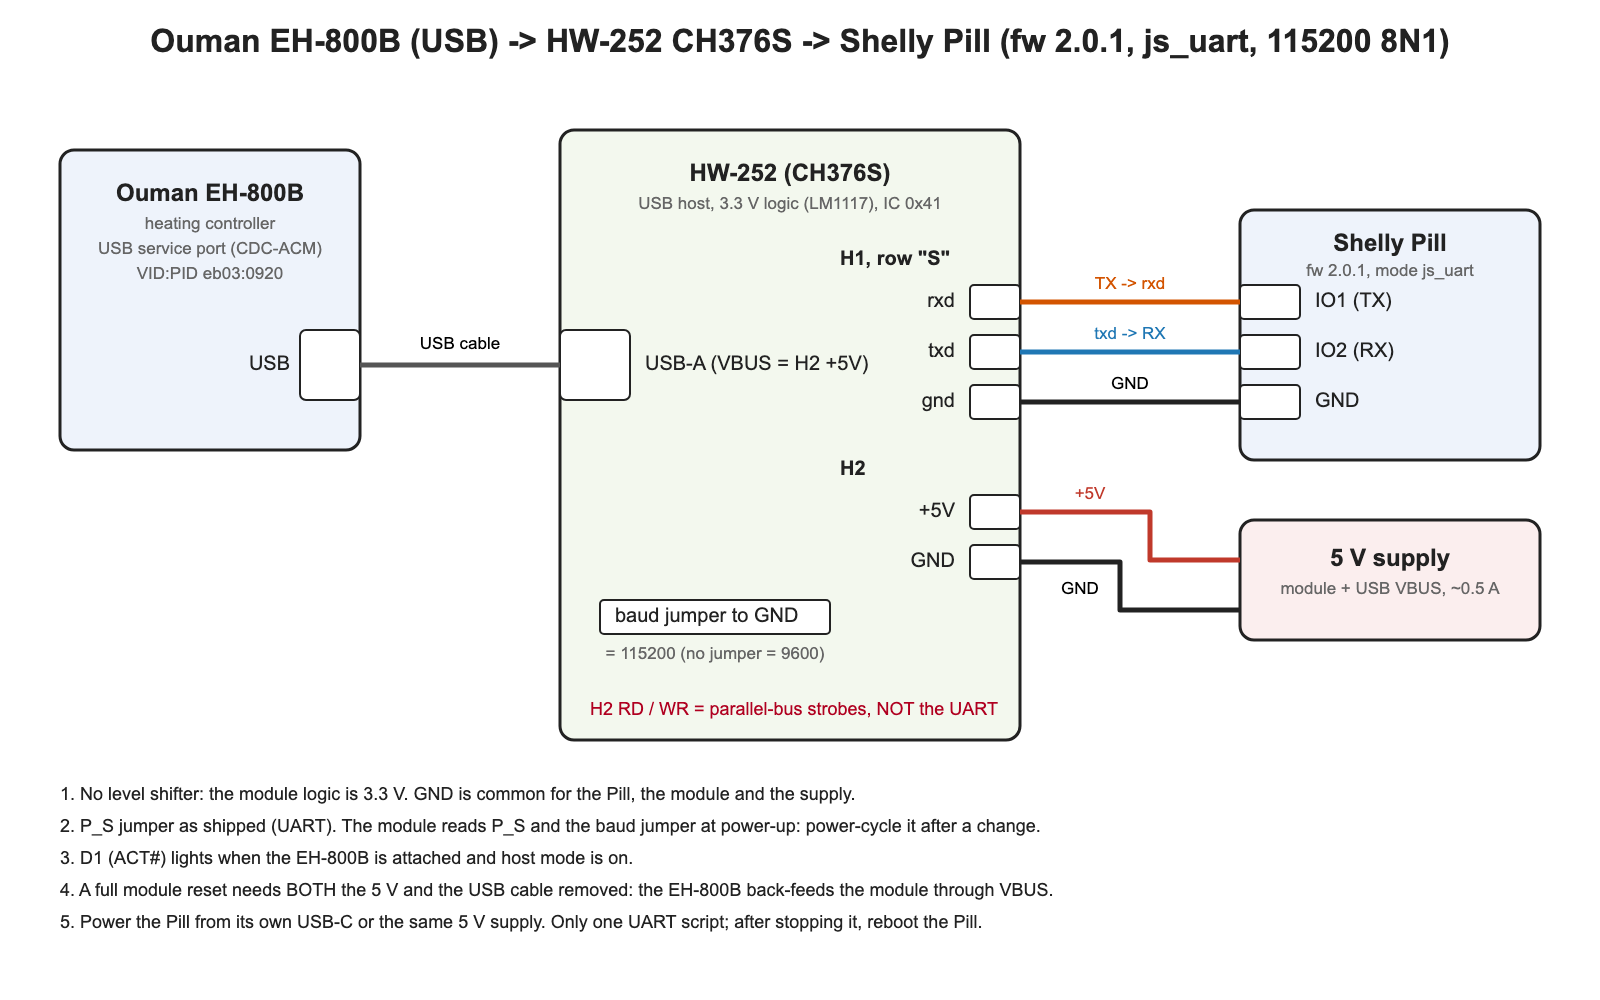
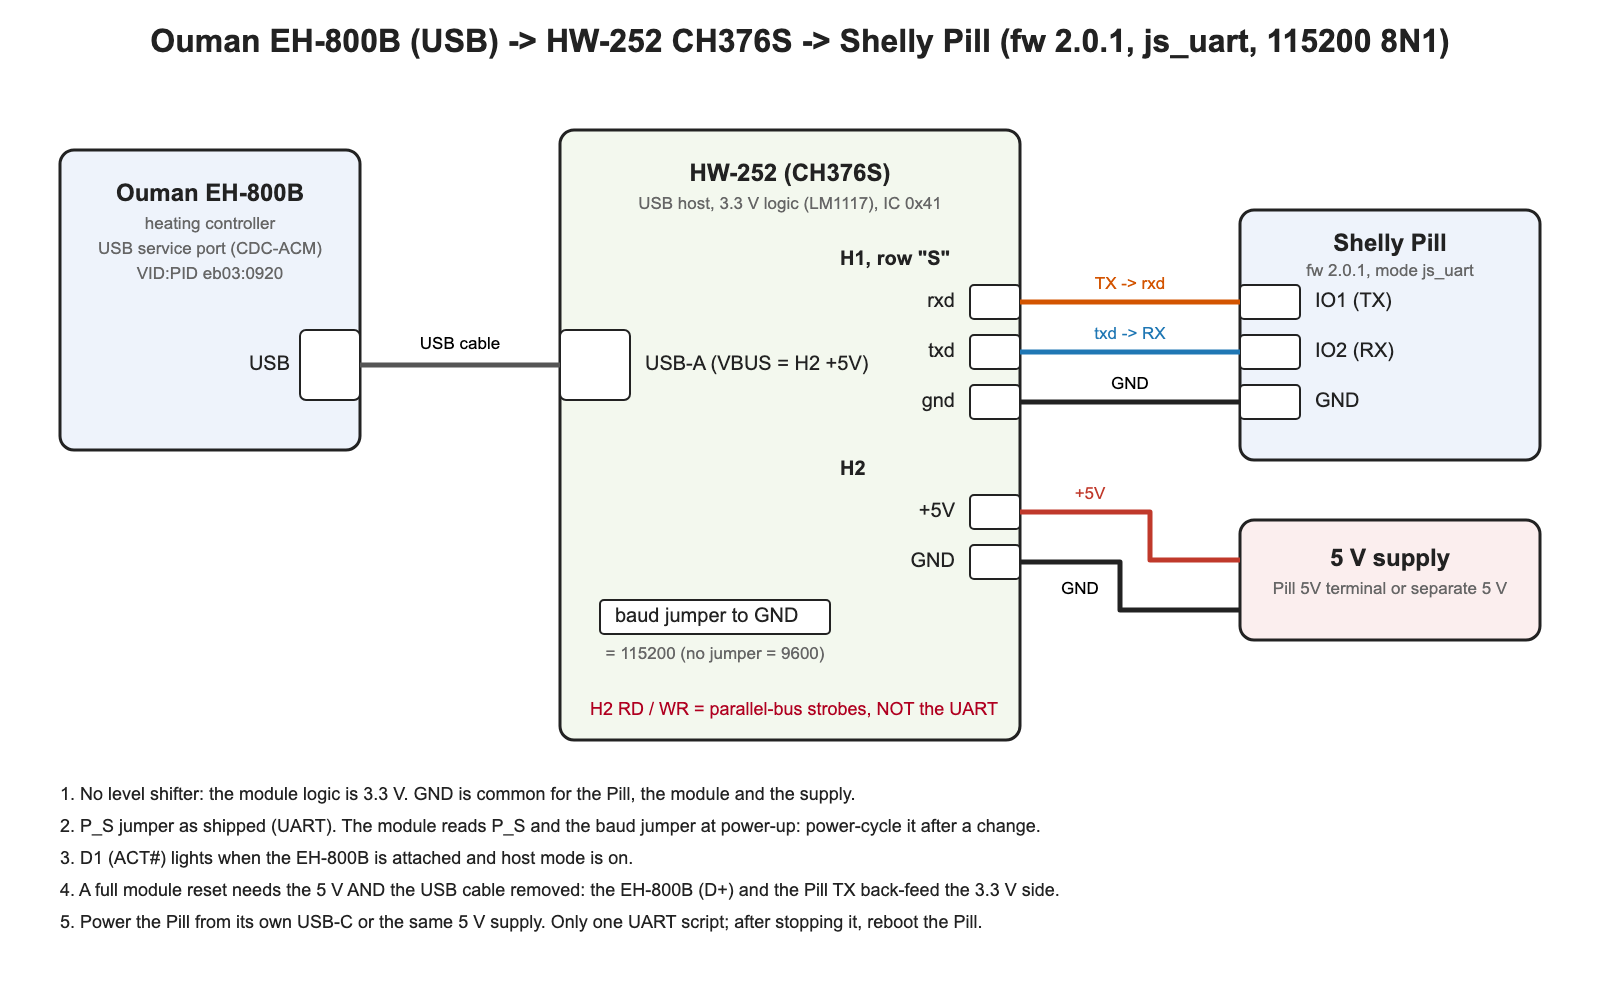
ouman: persistent power-cycle limits, back-feed findings and reset options (20261021-17)

Changed region(s): [[0.1875, 0.868, 0.6562, 0.899], [0.8125, 0.558, 0.9375, 0.62]]

diff --git a/ouman/eh800b-usb/ouman_eh800b_usb.shelly.js b/ouman/eh800b-usb/ouman_eh800b_usb.shelly.js
@@ -56,7 +56,7 @@
  * MQTT  <prefix>/state (retained), /diag, /set, /prop/<id> (retained),
  *       /debug (TX/RX hex while DEBUG).
  *
- * version 20261021-16
+ * version 20261021-17
  */
 
 // ===================================================================
@@ -77,11 +77,14 @@ let CFG = {
   PROPS: "127,134,135,6,7,8,26,102,130,54,55,91,112,230",
   PROP_SCAN: true,
   // optional: power-cycle the HW-252 through another Shelly when the CH376S stops answering
-  // (it hangs when the USB device is unplugged mid-transfer); the relay switches the module
-  // 5 V and turns itself back on (toggle_after), e.g.
-  // "http://<relay-ip>/rpc/Switch.Set?id=0&on=false&toggle_after=5"; "" = off
+  // (it hangs when the USB device is unplugged mid-transfer). The relay cuts the module 5 V,
+  // or a Shelly Plug cuts the Pill's own USB-C supply (Pill + module), and turns itself back
+  // on (toggle_after), e.g. "http://<relay-ip>/rpc/Switch.Set?id=0&on=false&toggle_after=10";
+  // "" = off. Limits are kept in KVS "ouman_mres" so they survive the Pill's own power cut.
   MODULE_RESET_URL: "",
-  MODULE_RESET_AFTER: 3, // start-ups in a row with no answer from the module
+  MODULE_RESET_AFTER: 3,     // start-ups in a row with no answer from the module
+  MODULE_RESET_MIN_S: 600,   // at least this long between power cycles
+  MODULE_RESET_PER_DAY: 6,
   DEBUG: false
 };
 
@@ -120,7 +123,7 @@ let queue = [], curCmd = "", rc = 0, propIdx = 0, scanId = 1, trendWant = false;
 let V = { outdoor: null, supply: null, room: null, valve: null, ret: null, dhw: null, room_set: null, mode: null, kp: null };
 let M = [], P = {}, CH = [0, 0, 0], vcH = [null, null, null, null, null, null, null, null, null];
 let ST = { link: false, dev: "", ts: 0, n: 0, err: "", cmd: "", out: "", rej: "", rej_ts: 0, mres: 0, mres_ts: 0, mres_err: "" };
-let modFails = 0;
+let modFails = 0, mresBusy = false;
 let TRD = { epoch: 0, raw: null, hex: "", ptr: -1, k: -1, pk: 0, need: 0, ts: 0, s: 0, busy: false, err: "" };
 // trend.log stream parser: 22 B header, 20 B records (u32 epoch + 8 x int16/10)
 let TR = { on: false, pos: 0, rec: "", best: -1, bestRec: "", n: 0, hdr: "" };
@@ -256,22 +259,39 @@ function fail(why) {
   if (why === "no reply from the controller") { initTries = 5; }   // retry every 30 s
   pubState();
   vcSync();
-  // the module itself is silent: after MODULE_RESET_AFTER start-ups cut its power (max every 2 min)
+  // the module itself is silent: after MODULE_RESET_AFTER start-ups cut its power
   if (why.indexOf("CHECK_EXIST") >= 0 || why.indexOf("no status") >= 0) { modFails++; }
-  if (CFG.MODULE_RESET_URL && modFails >= CFG.MODULE_RESET_AFTER && nowS() - ST.mres_ts >= 120) {
-    modFails = 0; ST.mres++; ST.mres_ts = nowS();
-    print("[ouman] module power cycle " + JSON.stringify(ST.mres));
-    Shelly.call("HTTP.GET", { url: CFG.MODULE_RESET_URL, timeout: 5 }, modResetCb, null);
-    gT(12000, init);
-    return;
+  if (CFG.MODULE_RESET_URL && modFails >= CFG.MODULE_RESET_AFTER && !mresBusy) {
+    modFails = 0; mresBusy = true;
+    Shelly.call("KVS.Get", { key: "ouman_mres" }, mresGetCb, null);
   }
   initTries++;
   // generation-bound: of several quick fail()s only the last one restarts the link
   gT(initTries < 5 ? 3000 : 30000, init);
 }
+// KVS "ouman_mres" = "<day>:<count>:<last unixtime>"; no clock yet -> no power cycle
+function mresGetCb(res, err, msg, ud) {
+  let now = nowS(), day = Math.floor(now / 86400), n = 0, last = 0;
+  if (err === 0 && res && res.value) {
+    let p = res.value.split(":");
+    if (Number(p[0]) === day) { n = Number(p[1]); }
+    last = Number(p[2]);
+  }
+  if (!now || now < 1700000000 || n >= CFG.MODULE_RESET_PER_DAY || now - last < CFG.MODULE_RESET_MIN_S) {
+    ST.mres_err = "limit"; mresBusy = false; return;
+  }
+  ST.mres = n + 1; ST.mres_ts = now;
+  Shelly.call("KVS.Set", { key: "ouman_mres", value: JSON.stringify(day) + ":" + JSON.stringify(n + 1) + ":" + JSON.stringify(now) }, mresSetCb, null);
+}
+function mresSetCb(res, err, msg, ud) {
+  if (err !== 0) { ST.mres_err = "kvs " + msg; mresBusy = false; return; }
+  print("[ouman] module power cycle " + JSON.stringify(ST.mres) + " today");
+  Shelly.call("HTTP.GET", { url: CFG.MODULE_RESET_URL, timeout: 5 }, modResetCb, null);
+}
 function modResetCb(res, err, msg, ud) {
   ST.mres_err = (err !== 0) ? "rpc " + msg : ((res && res.code !== 200) ? "http " + JSON.stringify(res.code) : "");
   if (ST.mres_err) { print("[ouman] module power cycle failed: " + ST.mres_err); }
+  mresBusy = false;
 }
 function init() { busy = true; inTog = 0; outTog = 0; iK = 0; initStep(""); }
 function initStep(r) {

diff --git a/ouman/eh800b-usb/README.md b/ouman/eh800b-usb/README.md
@@ -38,32 +38,38 @@ all scripts together about 25 kB of heap.
   module back through VBUS.
 * D1 (ACT#) lights when the EH-800B is attached and host mode is on.
 
-### Optional: automatic module reset (design, 21.10.2026 — not yet built)
+### Optional: automatic module reset (21.10.2026 — script ready, hardware not built yet)
 
 The CH376S hangs when the EH-800B is unplugged in the middle of a transfer, and only a power cycle
-brings it back (section 9). The Pill cannot switch anything itself in `js_uart` mode (all three IO
-pins are reserved), so another Shelly with a relay cuts the module's 5 V on request:
+brings it back (section 9). A Pill reboot does not help: the Pill's 5V terminal stays powered from
+USB-C. The Pill cannot switch anything itself in `js_uart` mode (all three IO pins are reserved), so
+another Shelly cuts the power and turns it back on by itself (`toggle_after`):
 
-| Part | Setting |
-|---|---|
-| Relay | any Gen2/Gen3 Shelly with a Switch, e.g. a dry-contact Shelly 1 (Mini) Gen3 in series with the module's +5 V, or a Shelly Plug switching the 5 V adapter |
-| Relay config | `initial_state: "on"` and `auto_on: true`, `auto_on_delay: 10` (power comes back even if the relay reboots or is switched off by hand) |
-| Script | `MODULE_RESET_URL: "http://<relay-ip>/rpc/Switch.Set?id=0&on=false&toggle_after=5"` |
+| Option | Switch | Power-cycles | Extra parts |
+|---|---|---|---|
+| 1 — module fed from the Pill's 5V terminal | Shelly Plug in front of the Pill's USB-C adapter | Pill + HW-252 | 330 Ω (below) |
+| 2 — module fed separately | dry-contact Shelly relay (e.g. 1 Mini Gen3) in the module's +5 V wire | HW-252 only | 330 Ω + 1 kΩ (below) |
 
-After `MODULE_RESET_AFTER` (3) start-ups in a row without an answer from the module, the script
-calls the URL, waits 12 s and starts again; at most once every 2 minutes. `diag.mres`, `mres_ts`
-and `mres_err` show the count, the time and an error.
+* Relay / plug config: `initial_state: "on"`, `auto_on: true`, `auto_on_delay: 10`.
+* Script: `MODULE_RESET_URL: "http://<relay-ip>/rpc/Switch.Set?id=0&on=false&toggle_after=10"`.
+* After `MODULE_RESET_AFTER` (3) start-ups in a row without an answer from the module the script
+  cuts the power, at least `MODULE_RESET_MIN_S` (600 s) apart and at most `MODULE_RESET_PER_DAY` (6)
+  times a day, and never before the Pill's clock is set. The limits live in KVS `ouman_mres`, so
+  option 1 (the Pill switches its own power off) cannot loop. `diag.mres`, `mres_ts` and `mres_err`
+  show the count, the time and an error (`limit` = held back by the limits).
+* Without USB-C the Pill does not run on the back-feed (bench 21.10.2026).
 
-**Back-feed must be blocked first**, otherwise the EH-800B keeps the module powered through the
-USB cable and the power cut does not reset it. Measure with the module 5 V disconnected, the USB
-cable attached and the controller on: (1) H2 +5V to GND, (2) the module 3.3 V rail (LM1117
-output) to GND.
+**Back-feed must be blocked**, otherwise the module never resets. Bench measurement 21.10.2026 with
+the module 5 V cut, the USB cable attached and the controller on: **3.3 V rail 2.5 V, H2 +5V 1.4 V**.
+The module is fed into its 3.3 V side, not through VBUS: through the controller's D+ pull-up and,
+while the Pill is powered, the Pill's TX idle level, both via the CH376S protection diodes (the
+1.4 V on +5V leaks back through the LM1117). A VBUS diode would not help. Fix:
 
-| Reading | Back-feed path | Fix |
-|---|---|---|
-| (1) ≥ 3 V | VBUS | Schottky diode (1N5817 / SS14) in the cable's VBUS wire, anode towards the HW-252 |
-| (1) < 1 V, (2) 1–3 V | D+/D− pull-up through the CH376S | 330 Ω from the 3.3 V rail to GND |
-| both < 0.5 V | none | the relay alone is enough |
+* **330 Ω from the 3.3 V rail (LM1117 output) to GND** — pulls the rail to ~0.5 V against the
+  1.5 kΩ D+ pull-up when the power is cut; ~10 mA while running.
+* **Option 2 only: 1 kΩ in series in the Pill IO1 (TX) → rxd wire** — the Pill's push-pull TX
+  would otherwise hold the rail up; 115200 baud is not affected.
+* Check: with the power cut the 3.3 V rail must read below 1 V.
 
 ## 2. Prepare the Pill
 
@@ -99,6 +105,7 @@ The CFG block at the top of each script is the only part to edit. Main script:
 | `PROP_SCAN` | true | also read every property id 1–257 and 327–422 in turn → `<prefix>/prop/<id>` |
 | `MODULE_RESET_URL` | `""` | optional relay URL that power-cycles the HW-252 (section 1, automatic module reset) |
 | `MODULE_RESET_AFTER` | 3 | start-ups in a row without an answer from the module before the power cycle |
+| `MODULE_RESET_MIN_S` / `MODULE_RESET_PER_DAY` | 600 / 6 | spacing and daily cap of the power cycles (kept in KVS `ouman_mres`) |
 
 ## 4. What you get
 
@@ -258,6 +265,12 @@ UART script only receives after a fresh boot. At most 6 reboots per day (KVS `ou
   cut off by a reboot later sends EOT into the next reply; the script cancels and flushes at start.
 * The numbering is the same as in the EH-800 Ethernet interface (`S_<id>_85`); the Home Assistant
   `ouman_eh_800` integration uses that HTTP interface and does not apply to the EH-800B.
+
+## Changes in 20261021-17
+
+* The power-cycle limits moved to KVS `ouman_mres` (≥ 600 s apart, ≤ 6 a day, only with the clock
+  set): a plug that power-cycles the Pill itself cannot make it loop. Tested on the bench with a
+  harmless URL: first series → one call + KVS entry, second series at once → `limit`.
 
 ## Changes in 20261021-16
 
